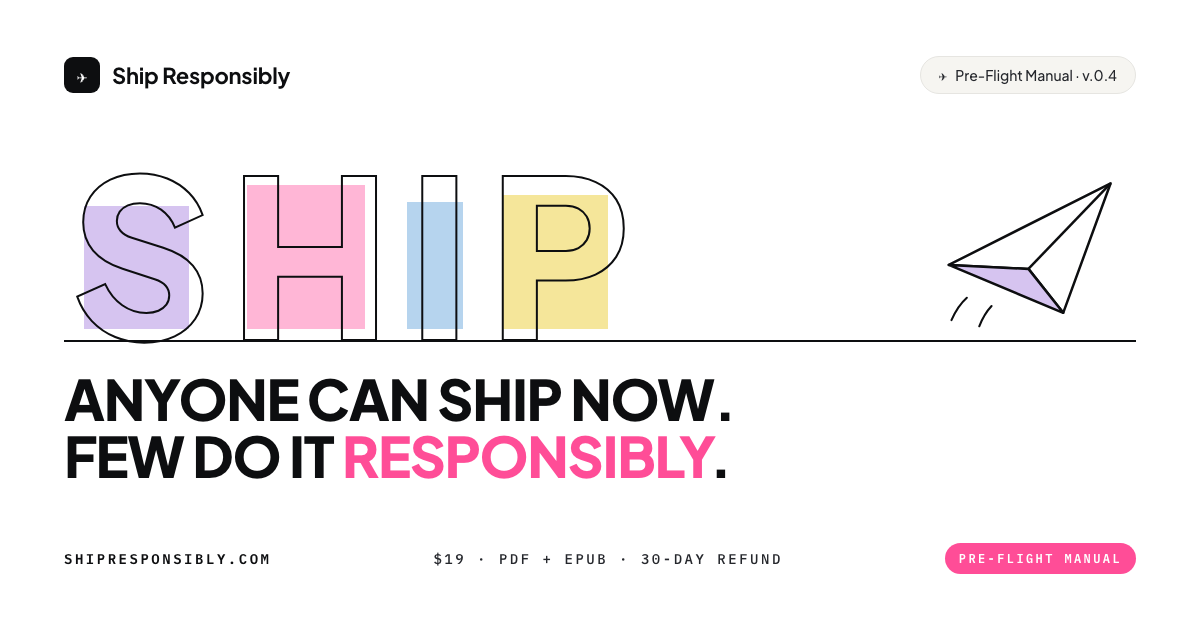
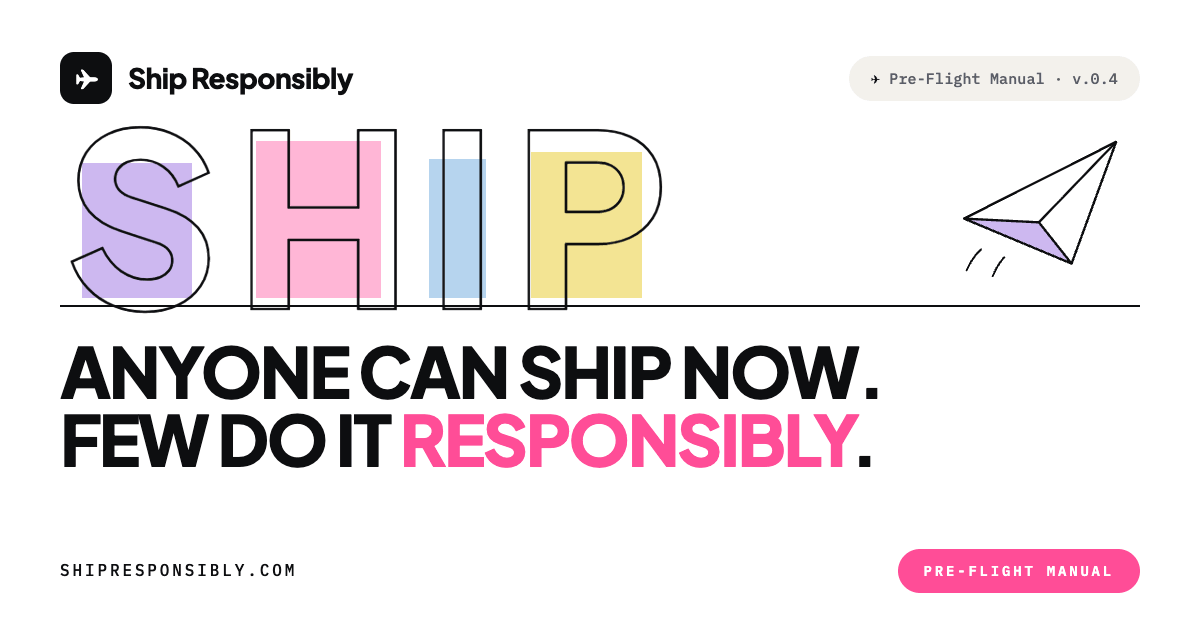
feat: give away the manual for free
Drop $19 pricing and 30-day refund copy from the landing page, switch
CTAs to "Download the manual", remove the sample-chapter CTA and the
cover price badge, and update meta/social descriptions. Swap in the new
OG image and delete the unused $19 Gumroad thumbnail.

diff --git a/public/index.html b/public/index.html
@@ -4,20 +4,20 @@
 <meta charset="utf-8" />
 <meta name="viewport" content="width=device-width, initial-scale=1" />
 <title>Ship Responsibly — A pre-flight manual for the vibecoding era</title>
-<meta name="description" content="A pre-flight manual for people shipping AI-assisted software. For first-time builders and senior engineers alike. $19." />
+<meta name="description" content="A pre-flight manual for people shipping AI-assisted software. For first-time builders and senior engineers alike. Free." />
 <link rel="canonical" href="https://shipresponsibly.com/" />
 
 <!-- Open Graph -->
 <meta property="og:type" content="website" />
 <meta property="og:url" content="https://shipresponsibly.com/" />
 <meta property="og:title" content="Ship Responsibly — A pre-flight manual for the vibecoding era" />
-<meta property="og:description" content="A pre-flight manual for people shipping AI-assisted software. For first-time builders and senior engineers alike. $19." />
+<meta property="og:description" content="A pre-flight manual for people shipping AI-assisted software. For first-time builders and senior engineers alike. Free." />
 <meta property="og:image" content="https://shipresponsibly.com/assets/og-image.png" />
 
 <!-- Twitter -->
 <meta name="twitter:card" content="summary_large_image" />
 <meta name="twitter:title" content="Ship Responsibly — A pre-flight manual for the vibecoding era" />
-<meta name="twitter:description" content="A pre-flight manual for people shipping AI-assisted software. For first-time builders and senior engineers alike. $19." />
+<meta name="twitter:description" content="A pre-flight manual for people shipping AI-assisted software. For first-time builders and senior engineers alike. Free." />
 <meta name="twitter:image" content="https://shipresponsibly.com/assets/og-image.png" />
 
 <!-- Favicon: white paper plane in a dark square, matching the nav glyph. -->
@@ -45,10 +45,10 @@
   <!-- Search engine / no-JS fallback. The page is mostly static; this block
        restates the proposition so the page is legible without script. -->
   <div style="background:#0d0e10;color:#fff;padding:14px 22px;font-family:system-ui,sans-serif;font-size:14px;line-height:1.5;">
-    <strong>Ship Responsibly</strong> is a $19 pre-flight manual for the vibecoding era —
+    <strong>Ship Responsibly</strong> is a free pre-flight manual for the vibecoding era —
     a five-level severity model, a 25-point pre-flight checklist, thirty responsible
     prompt templates, and seven postmortems.
-    <a href="/manual" style="color:#ff4d97;text-decoration:underline;">Get the manual →</a>
+    <a href="/manual" style="color:#ff4d97;text-decoration:underline;">Download the manual →</a>
   </div>
 </noscript>
 
@@ -64,7 +64,7 @@
       <a href="#buy">Manual</a>
       <a href="#about">About</a>
     </nav>
-    <a href="/manual" class="nav-cta">Get the manual <span class="arr" aria-hidden="true">↗</span></a>
+    <a href="/manual" class="nav-cta">Download the manual <span class="arr" aria-hidden="true">↗</span></a>
   </div>
 </header>
 
@@ -264,17 +264,8 @@
           <h2 style="margin-top: 22px;">Read it in an<br/>afternoon. Ship better<br/><em>by tomorrow.</em></h2>
           <p class="lede">The five-level severity model. The 25-point pre-flight checklist. Thirty responsible prompt templates. Seven postmortems from real, recent incidents. Printable appendices for the wall above your desk.</p>
 
-          <div class="price-row">
-            <span class="price"><span class="cur">$</span>19</span>
-            <div class="price-sub">
-              One-time<br/>
-              <b>30-day refund</b>
-            </div>
-          </div>
-
           <div class="ctas">
-            <a href="/manual" class="btn btn-primary">Get the manual <span class="arr" aria-hidden="true">↗</span></a>
-            <a href="/sample" class="btn btn-ghost">Free sample chapter</a>
+            <a href="/manual" class="btn btn-primary">Download the manual <span class="arr" aria-hidden="true">↗</span></a>
           </div>
 
           <div class="fine">
@@ -283,7 +274,6 @@
         </div>
 
         <div class="book" aria-hidden="true">
-          <span class="badge-pink">$19</span>
 
           <div class="b-top">
             <span class="b-tag">Manual</span>